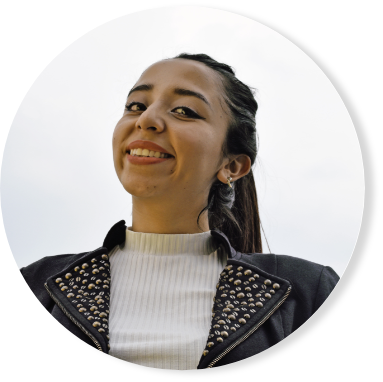
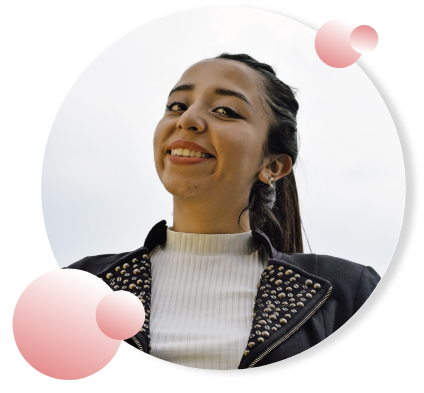
Changing aboutme image

diff --git a/src/script.js b/src/script.js
@@ -1,27 +1,54 @@
-//HIDE & SHOW
+const getData = async(url) => {
+    const response = await fetch(url);
+    return await response.json();
+};
 
-const hideSection = id => document.getElementById(id).classList.add('hide');
-const showSection = id => document.getElementById(id).classList.remove('hide');
+const dataApi = "./projects.json";
 
-//BUTTON
+const main = async() => {
+    const fullData = await getData(dataApi);
+    showData(fullData);
+};
 
-const menuBtn = document.getElementById('menu');
-const closeBtn = document.getElementById('close');
+const projects = document.getElementById('project-container');
 
-//MENU
 
-const menu = document.getElementById('mobile-menu-list');
 
-//FUNCTIONS
+const templateStringForProjects = (element) => {
+    return `<div class="card" style="background-image:url('${element.imgDesktop}')">
+    <div class="card-hover">
+       <div class="text">
+          <h3 class="title">${element.name}</h3>
+          <p class="description">${element.description}</p>
+          <p>
+          <i class="${element.html}"></i>
+          <i class="${element.css}"></i>
+          <i class="${element.js}"></i>
+          <i class="${element.node}"></i> 
+             </p>
+             <p class="links">
+                <a href="${element.ghpages}" target="_blank">
+                   <i class="fas fa-external-link-alt"></i>
+                </a> 
+                <a href="${element.repository}" target="_blank">
+                   <i class="fab fa-github"></i>
+                </a>
+          </p>
+       </div>
+       </div>
+    
+ </div>
+    `
 
-showMenu = () => {
-    showSection('menu');
-}
+};
 
-menuBtn.addEventListener('click', showMenu);
+const showData = (data) => {
+    let items = '';
+    data.forEach((element) => {
+        items +=
+            templateStringForProjects(element);
+    });
+    return projects.innerHTML = items;
+};
 
-closeMenu = () => {
-    hideSection('menu');
-}
-
-closeBtn.addEventListener('click', closeMenu);
+window.addEventListener('load', main);

diff --git a/src/index.html b/src/index.html
@@ -116,6 +116,9 @@
         <section id="projects">
             <article>
                 <h2>Projects</h2>
+                <article id="project-container">
+
+                </article>
             </article>
         </section>
         <section id="skills">
